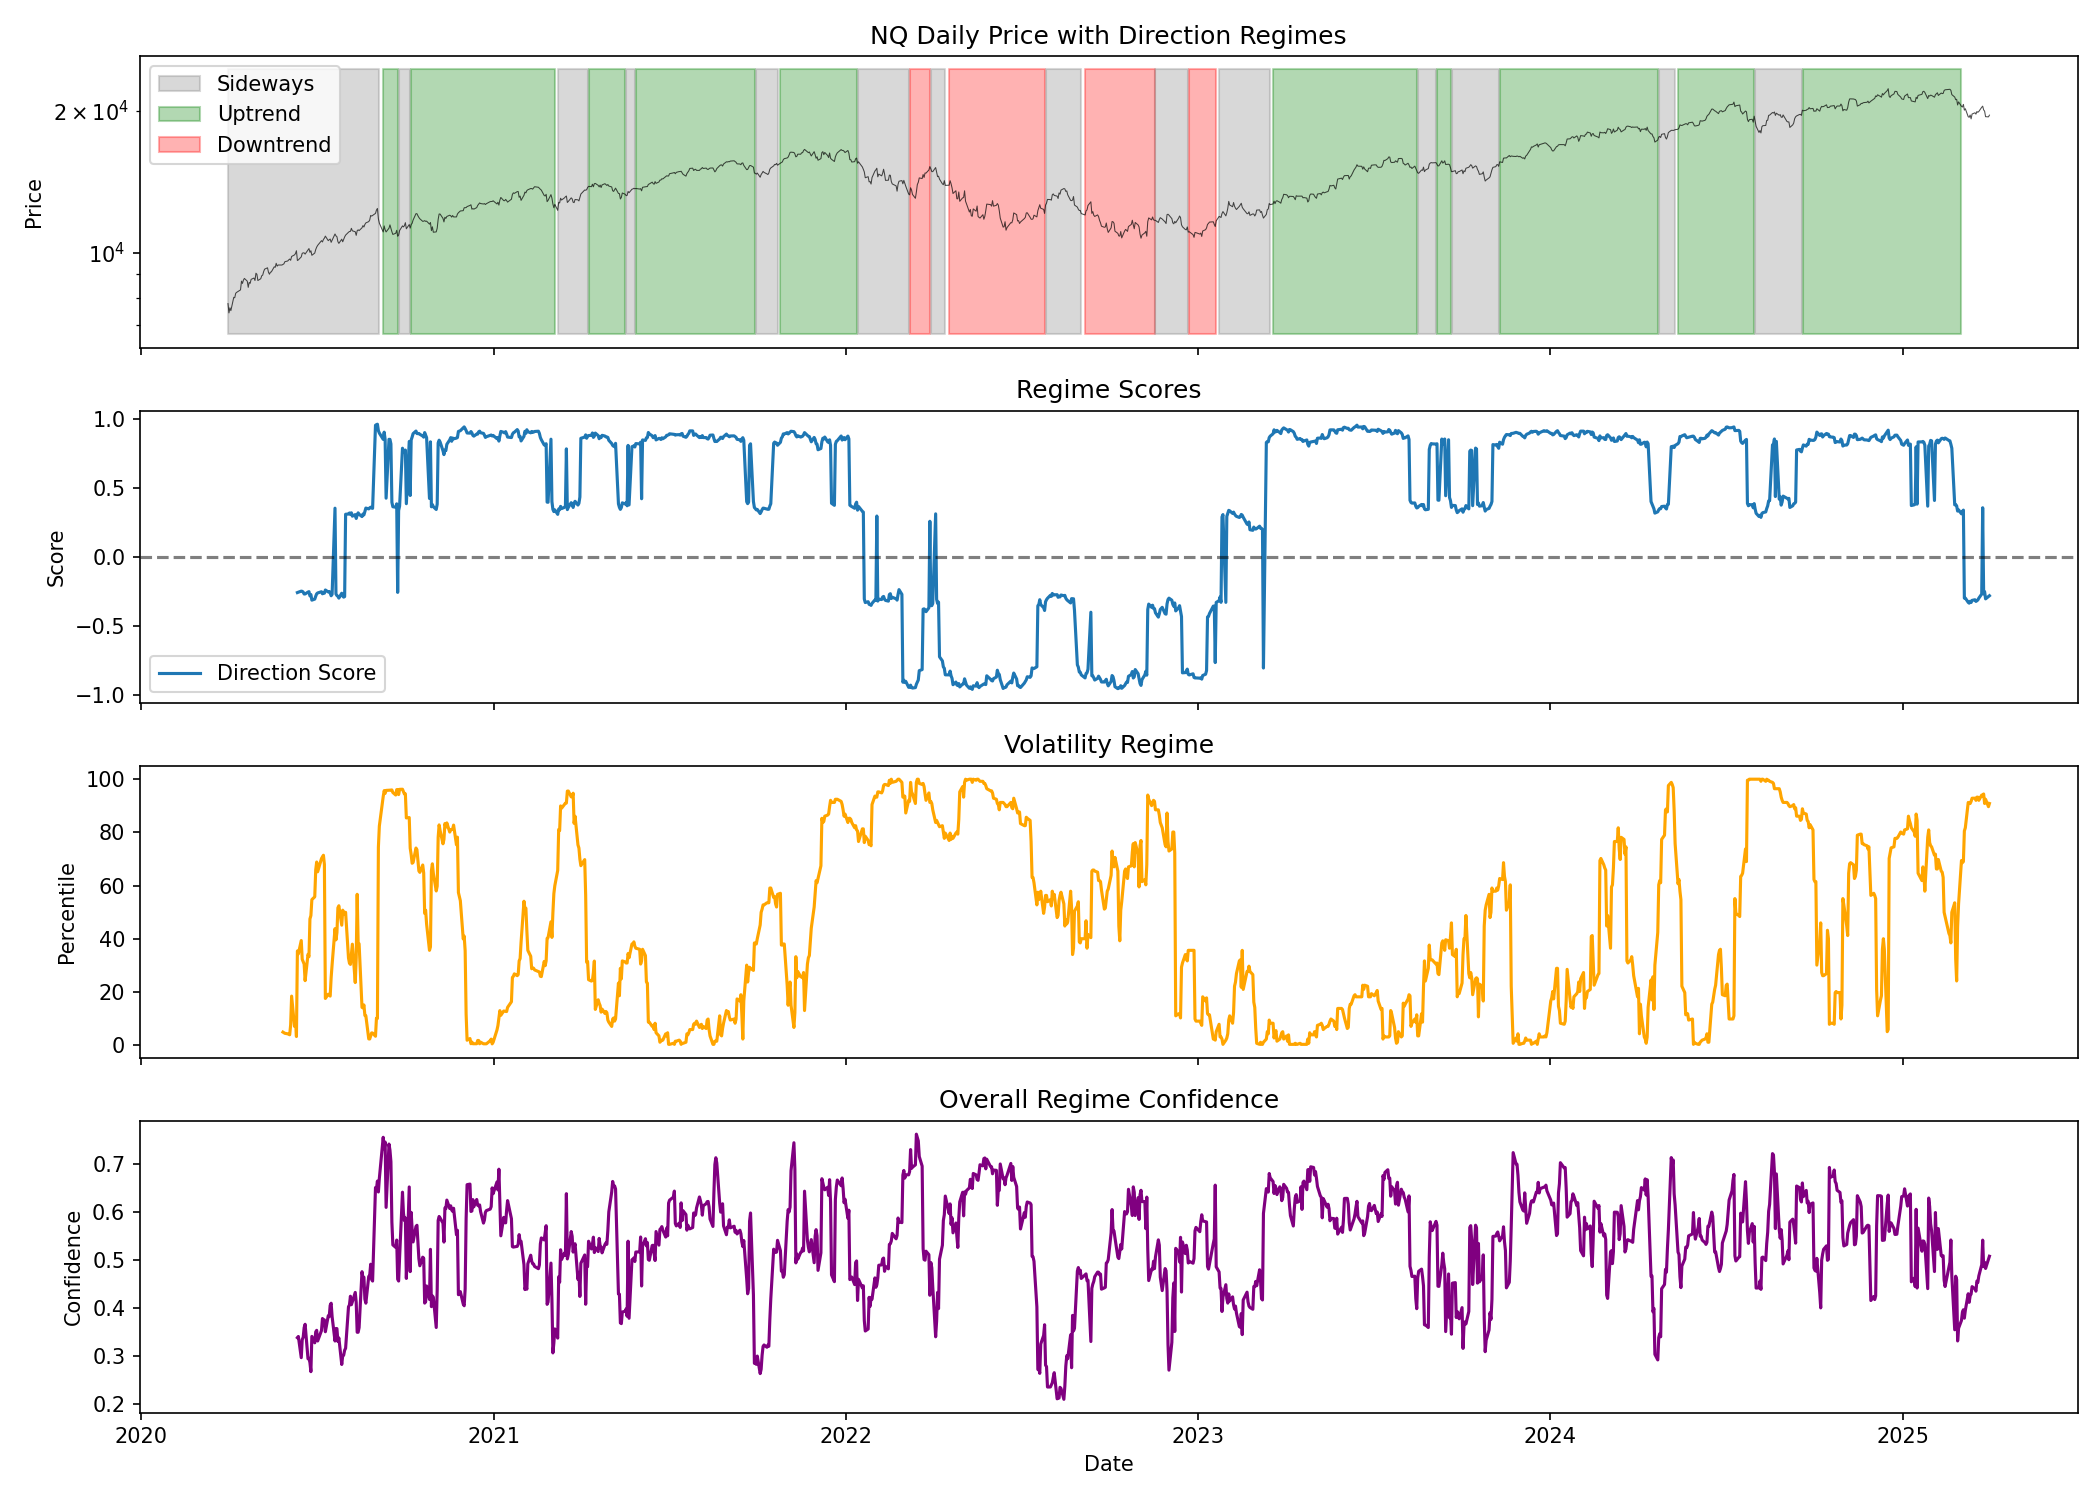
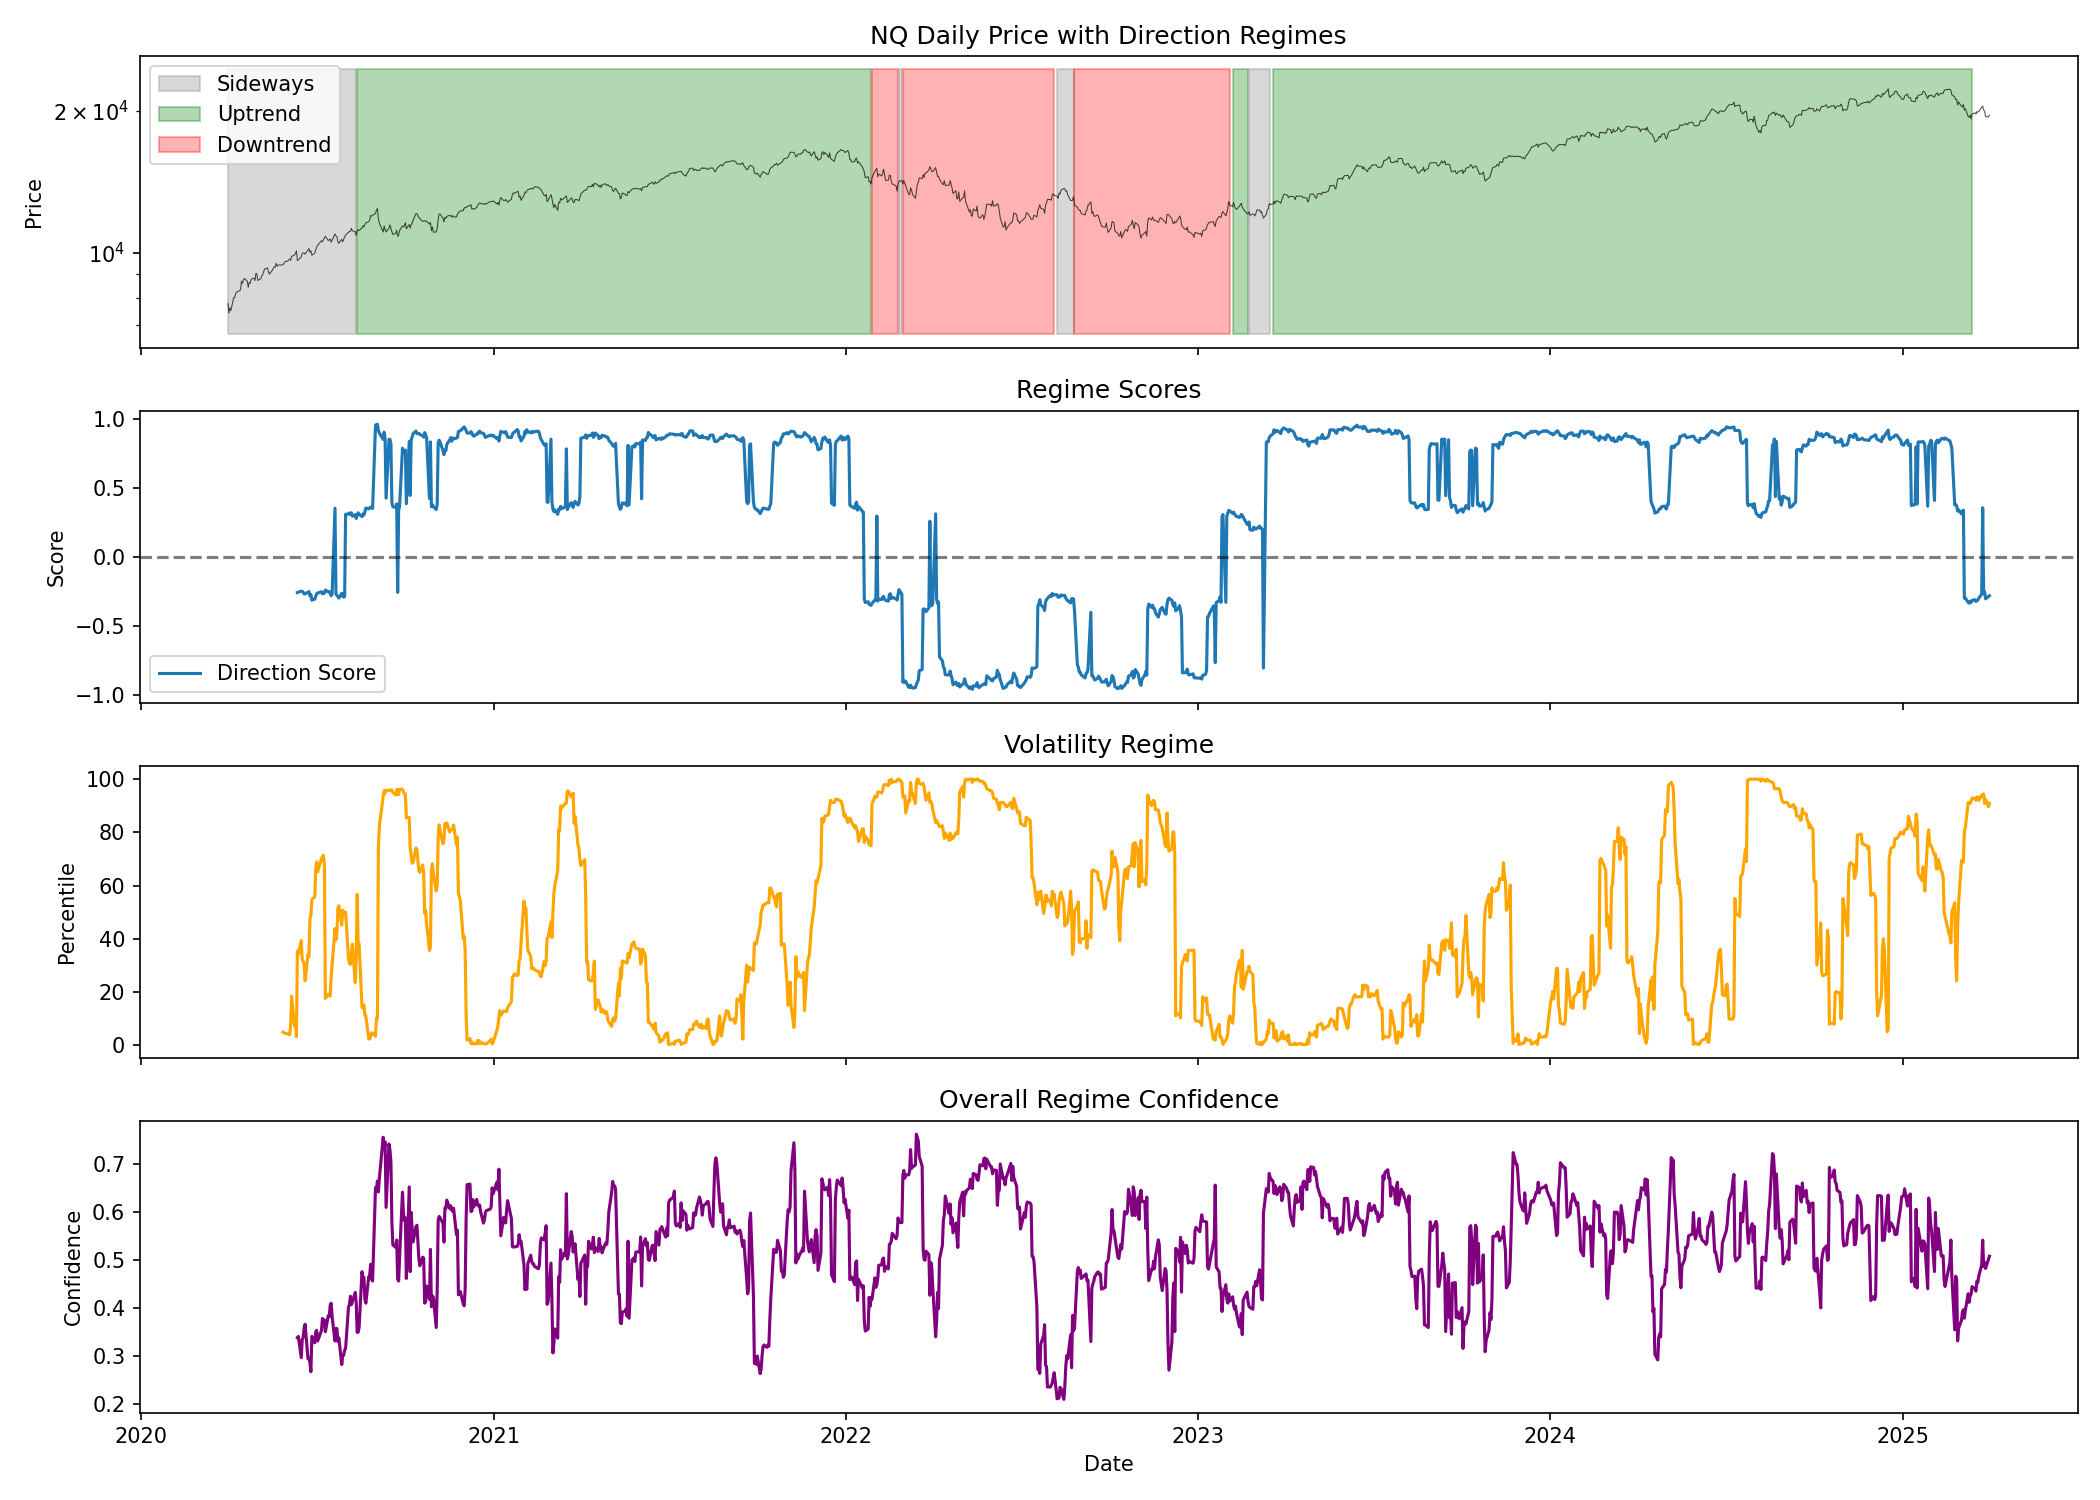
Auto-save-daily_regime_classifier

diff --git a/ob_model/v2.0_precloud_reorganization_and_clean/daily_regime_classifier.py b/ob_model/v2.0_precloud_reorganization_and_clean/daily_regime_classifier.py
@@ -66,8 +66,8 @@ class NQDailyRegimeClassifier:
         self.thresholds = {
             'direction_strong': 0.3,  # Threshold for Strong Uptrend/Downtrend
             'direction_neutral': 0.1, # Threshold for Neutral Sideways
-            'strength_strong': 0.275,   # Threshold for Strong
-            'strength_moderate': 0.175, # Threshold for Moderate
+            'strength_strong': 0.25,   # Threshold for Strong
+            'strength_moderate': 0.2, # Threshold for Moderate
             'vol_low': 35,
             'vol_normal': 75,
             'vol_high': 90,
